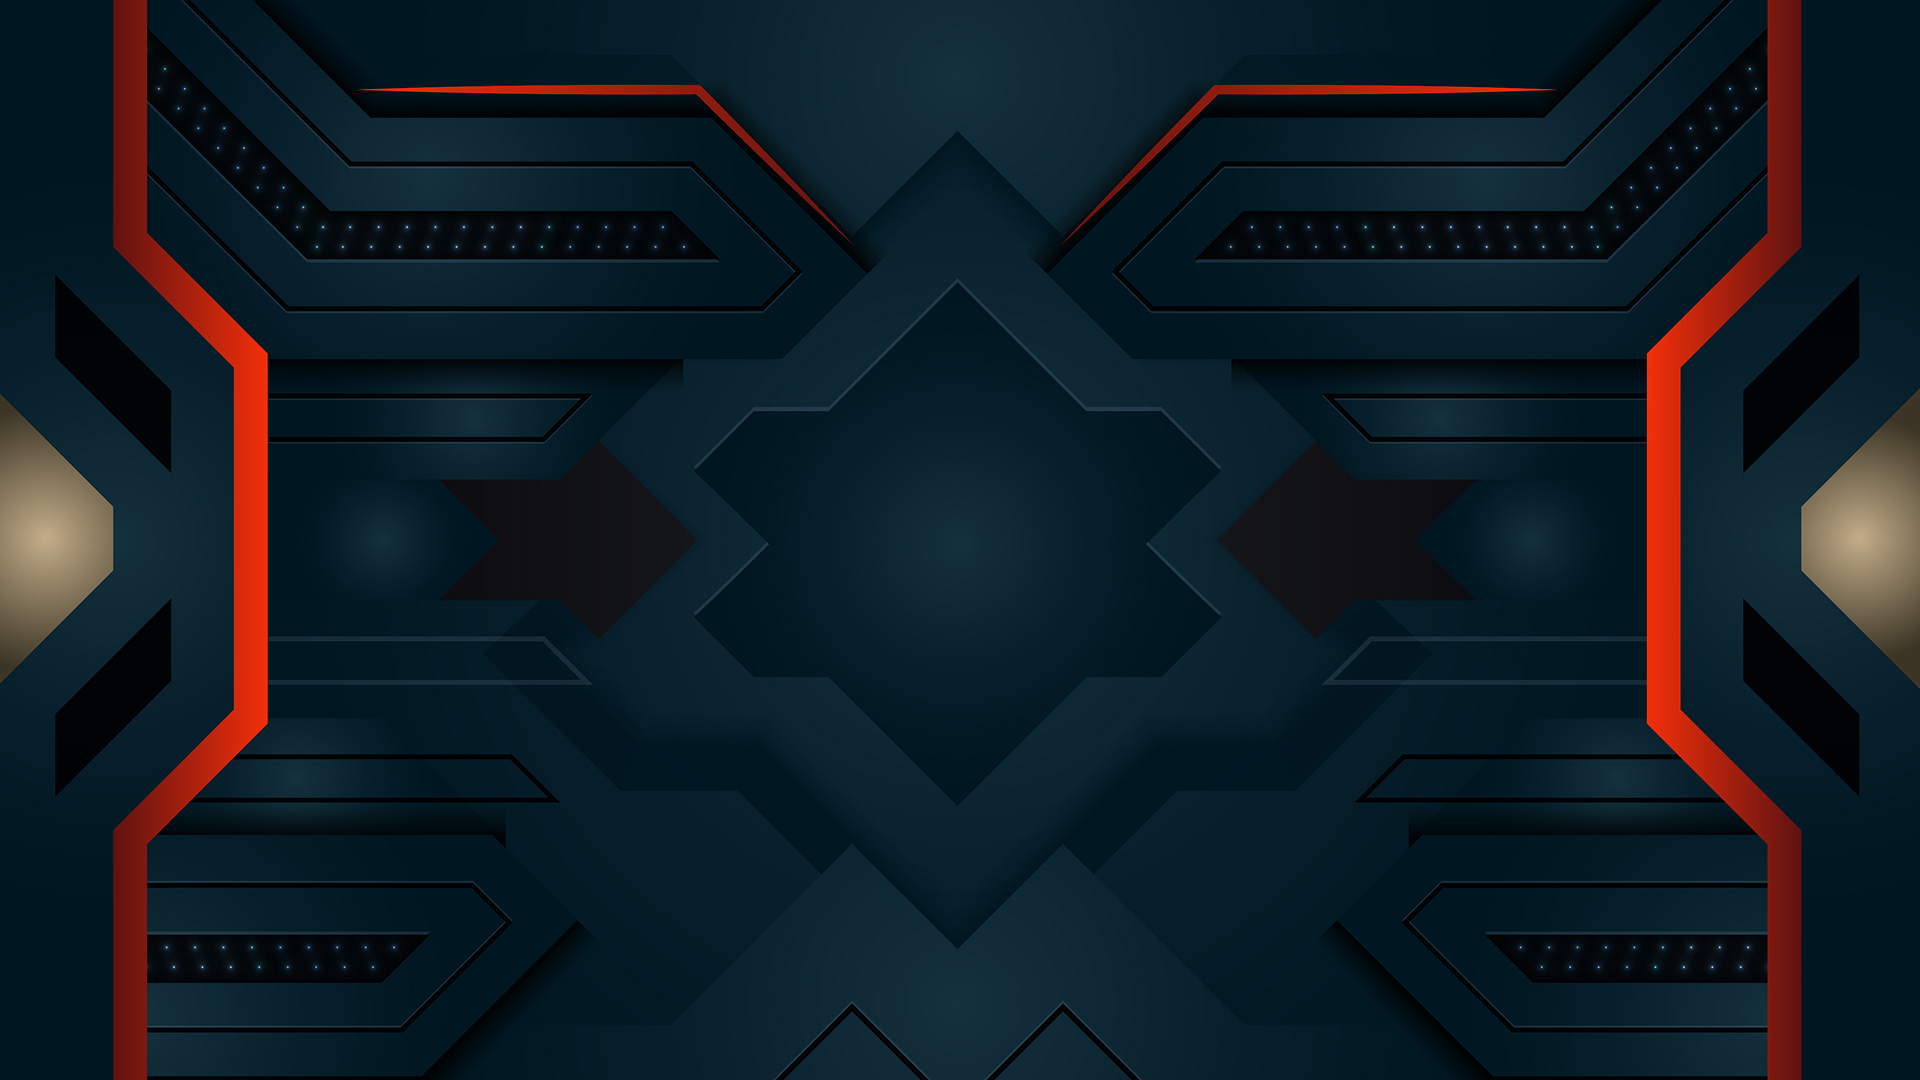
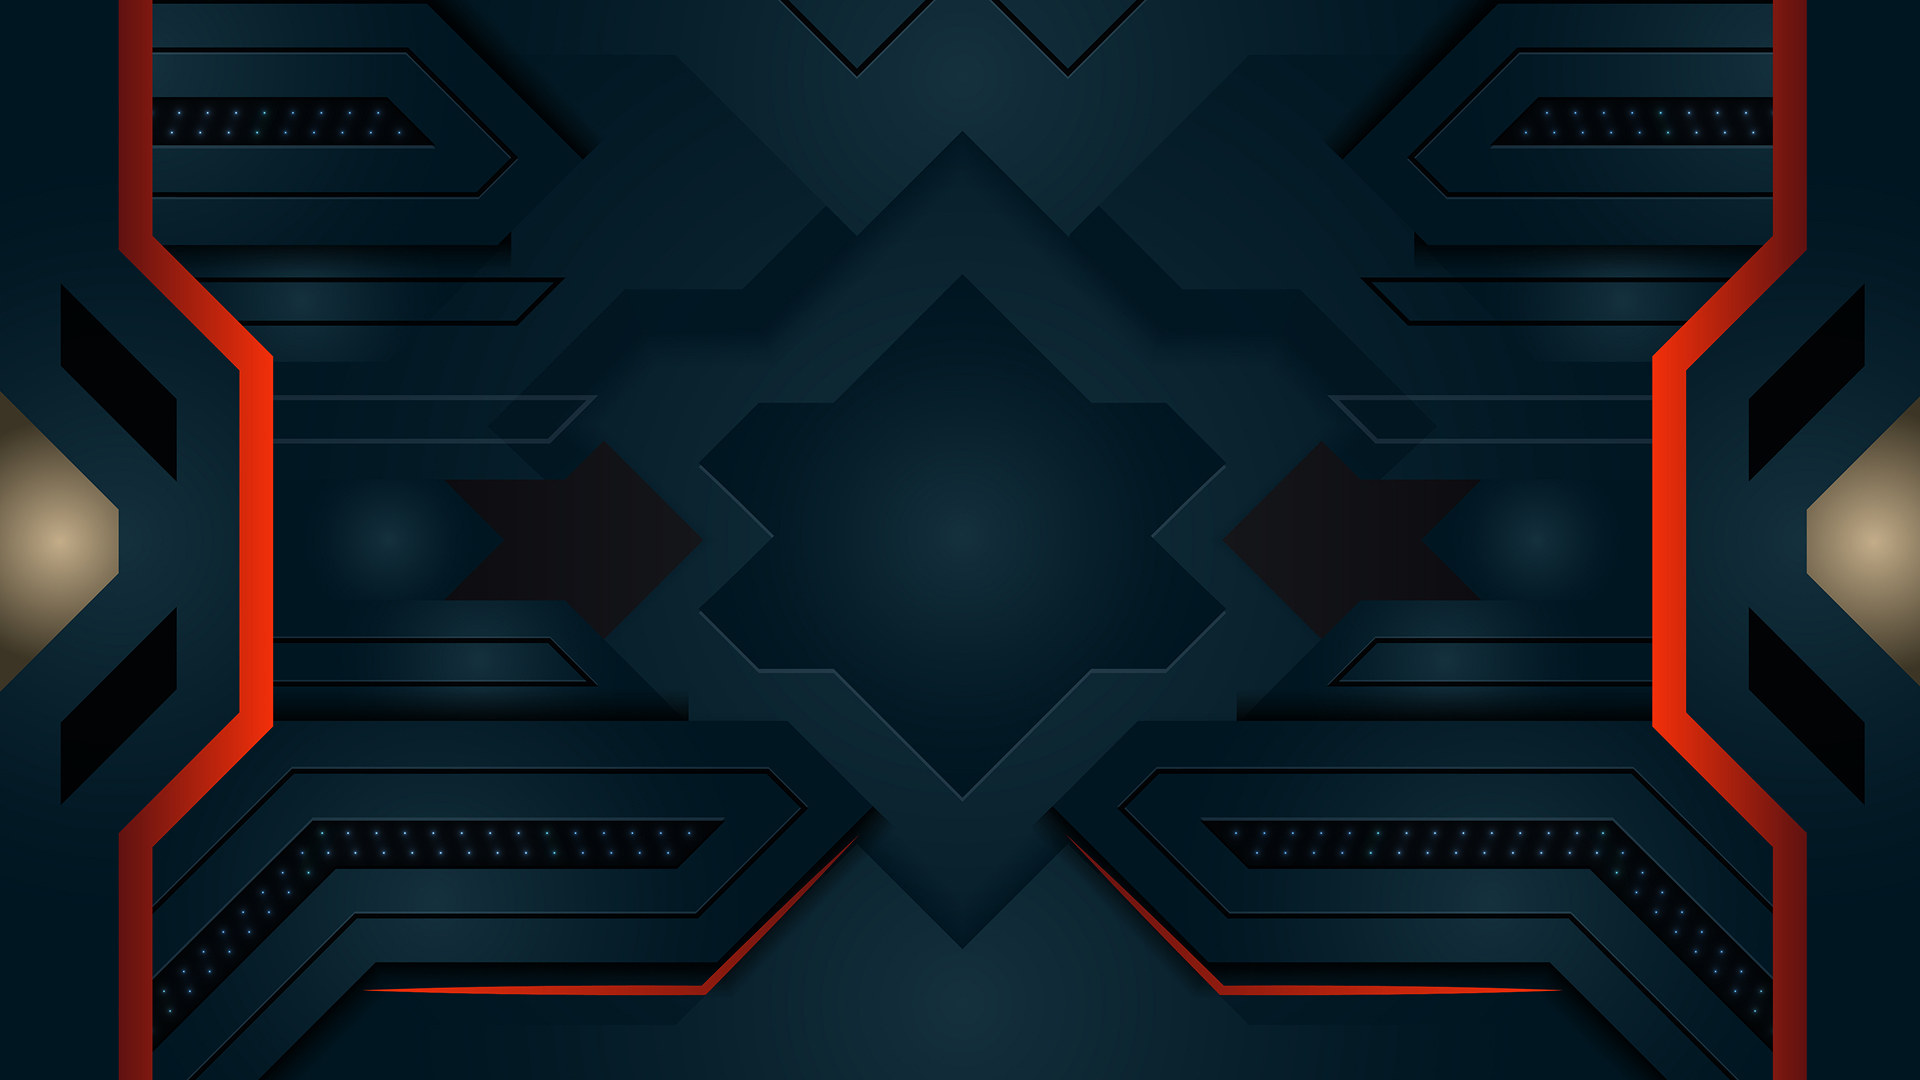
gix hero section

diff --git a/app/components/shared/CookieModal.vue b/app/components/shared/CookieModal.vue
@@ -1,7 +1,7 @@
 <script setup lang="ts">
 import { ref, onMounted } from 'vue'
 
-const STORAGE_KEY = 'cookie-modal-shown'
+const STORAGE_KEY = 'cyber-sport-cookie-modal-shown'
 
 const isVisible = ref(false)
 
@@ -29,7 +29,9 @@ function accept() {
     </div>
 
     <button class="cookie-modal__close" @click="accept">
-      Ok
+      <svg xmlns="http://www.w3.org/2000/svg" width="31" height="31" viewBox="0 0 31 31" fill="none">
+        <path d="M1.41406 1.41418L29.4141 29.4142M29.4141 1.41418L1.41406 29.4142" stroke="#F32F0A" stroke-width="4"/>
+      </svg>
     </button>
   </div>
 </template>
@@ -44,11 +46,11 @@ function accept() {
   display: flex;
   align-items: flex-start;
   gap: 1.6rem;
-  background-color: $white;
-  color: $black;
-  padding: 1.6rem 2rem;
-  max-width: 48.6rem;
-  border-radius: 10px;
+  background-color: $brown;
+  color: $white;
+  padding: 2.4rem 2.8rem;
+  max-width: 76rem;
+  border-radius: 13px;
 
   @media (max-width: $tablet) {
     max-width: 90%;
@@ -65,34 +67,16 @@ function accept() {
   }
 
   &__close {
-    flex-grow: 0;
-    flex-shrink: 0;
-    display: flex;
-    justify-content: center;
-    align-items: center;
-    background: $red;
-    font-family: $unbounded;
-    font-size: 1.6rem;
-    font-weight: 600;
-    color: $white;
-    border-radius: 30px;
-    padding: 0.6rem 1.6rem;
     border: none;
+    background: none;
     cursor: pointer;
-
-    @media (max-width: $mobile) {
-      padding: 2rem;
-    }
   }
 
   &__text {
-    color: $black;
-    max-width: 37.4rem;
 
     p {
-      color: $black;
-      font-family: $unbounded;
-      font-size: 1rem;
+      font-family: $tektur;
+      font-size: 1.4rem;
       font-style: normal;
       font-weight: 400;
       line-height: 1.3;

diff --git a/app/components/sections/HeroSection.vue b/app/components/sections/HeroSection.vue
@@ -52,15 +52,14 @@ const props = defineProps({
   }
 
   &__logos {
-    padding-top: 3.7rem;
-    max-width: 30rem;
+    padding-top: 7rem;
     display: flex;
     flex-wrap: wrap;
     justify-content: center;
     align-items: center;
     gap: 3.7rem;
     row-gap: 1.9rem;
-    margin: 0 auto 10.3rem;
+    margin: 0 auto 11rem;
   }
 
   &__main-logo {
